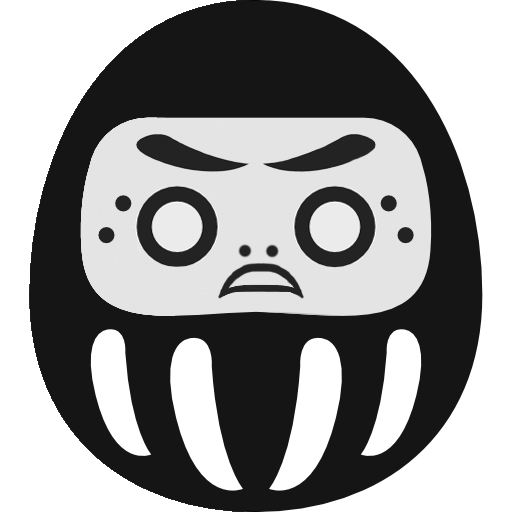
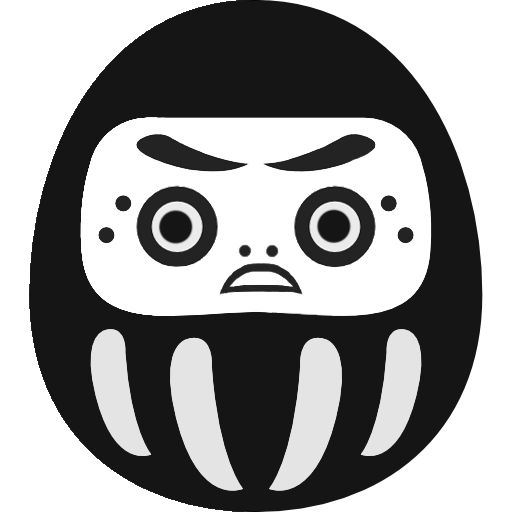
desync kois anim, add anim happy daruma when correct answer

Changed region(s): [[0.1562, 0.2188, 0.8438, 0.9062], [0.5312, 0.6562, 0.6875, 0.9688], [0.3125, 0.6562, 0.4688, 0.9688]]

diff --git a/css/styles.css b/css/styles.css
@@ -72,12 +72,18 @@ TOP CONTENT
 .btn-no-sound {
   display: none;
 }
+.btn-no-sound:hover {
+  cursor: pointer;
+}
 .btn-no-sound.is-active {
   display: block;
   width: 3.5rem;
 }
 .btn-sound {
   display: none;
+}
+.btn-sound:hover {
+  cursor: pointer;
 }
 .btn-sound.is-active {
   display: block;
@@ -86,6 +92,9 @@ TOP CONTENT
 .btn-help {
   margin-left: 1rem;
   width: 3.5rem;
+}
+.btn-help:hover {
+  cursor: pointer;
 }
 .codes-soluce-container {
   display: flex;
@@ -167,7 +176,7 @@ GAME
   padding: 0 10px;
   text-align: center;
   position: absolute;
-  top: 19%;
+  top: 12%;
   color: #dc0415;
 }
 .prediction-curtain {
@@ -238,7 +247,7 @@ GAME
 .kois-container {
   position: absolute;
   top: 75px;
-  left: 73px;
+  left: 70px;
 }
 .kois {
   display: flex;
@@ -247,7 +256,7 @@ GAME
   margin-right: 0.5rem;
 }
 .koi {
-  width: 2.5rem;
+  width: 2.6rem;
 }
 
 /* .board {
@@ -309,9 +318,31 @@ GAME
   width: 150px;
   z-index: 5;
 }
+.darumas-container {
+  position: relative;
+  width: 150px;
+  z-index: 5;
+}
+.daruma-happy-anim.is-active {
+  position: relative;
+  animation: DarumaBounce 0.4s ease;
+  animation-iteration-count: 3;
+}
+
 .darumas-container img {
   width: 100%;
   margin-bottom: -1rem;
+}
+@keyframes DarumaBounce {
+  from {
+    top: 0;
+  }
+  50% {
+    top: -20px;
+  }
+  to {
+    top: 0;
+  }
 }
 
 #big-wrapper > div.game-main-container > div.absolute > div > img.daruma-angry {
@@ -438,8 +469,6 @@ h2 span:nth-child(8) {
 }
 
 .swing {
-  width: 14%;
-  margin: auto;
   transform-origin: center top;
   animation: swing 1s ease-in-out forwards infinite;
   animation-iteration-count: infinite;
@@ -502,29 +531,68 @@ h2 span:nth-child(8) {
   }
 }
 
-/* .bars-container {
-  display: flex;
-  height: 300px;
-  background-color: antiquewhite;
+.swing2 {
+  transform-origin: center top;
+  animation: swing 1s ease-in-out forwards infinite;
+  animation-iteration-count: infinite;
+  animation-timing-function: ease-in;
+  animation-duration: 7s;
+  animation-play-state: running;
+  animation-name: swing;
 }
-.top-bar {
-  background: #d96147;
-  width: 100%;
-  height: 30px;
-  border: none;
-}
-.middle-bar {
-  background: #d96147;
-  width: 100%;
-  height: 30px;
-  border: none;
-}
-.bottom-bar {
-  background: #d96147;
-  width: 100%;
-  height: 30px;
-  border: none;
+/* .swing:hover {
+  animation-play-state: paused;
 } */
+@keyframes swing {
+  0% {
+    transform: rotate(0.1deg);
+  }
+  30% {
+    transform: rotate(1.8deg);
+  }
+  40% {
+    transform: rotate(2deg);
+  }
+  45% {
+    transform: rotate(2.1deg);
+  }
+  60% {
+    transform: rotate(1.8deg);
+  }
+  75% {
+    transform: rotate(1deg);
+  }
+  100% {
+    transform: rotate(0deg);
+  }
+}
+
+@keyframes swing {
+  0% {
+    transform: rotate(0deg);
+  }
+  15% {
+    transform: rotate(1deg);
+  }
+  30% {
+    transform: rotate(-1deg);
+  }
+  45% {
+    transform: rotate(2deg);
+  }
+  60% {
+    transform: rotate(-2deg);
+  }
+  75% {
+    transform: rotate(1deg);
+  }
+  90% {
+    transform: rotate(-1deg);
+  }
+  100% {
+    transform: rotate(0deg);
+  }
+}
 
 /* The popup (background) */
 .popup {
@@ -564,4 +632,9 @@ h2 span:nth-child(8) {
   color: #000;
   text-decoration: none;
   cursor: pointer;
+}
+
+.grow {
+  transition: all 0.2s ease-in-out;
+  transform: scale(1.1);
 }

diff --git a/index.html b/index.html
@@ -78,11 +78,21 @@
           <p class="enigmes"></p>
         </div>
         <div class="torii">
-          <img src="./pics/TORii_structure.svg" alt="torii" />
+          <img src="./pics/torii_clue.svg" alt="torii" />
           <div class="kois-container">
-            <div class="kois swing">
-              <img id="koi-one" class="koi" src="./pics/koi.png" alt="koi" />
-              <img id="koi-two" class="koi" src="./pics/koi.png" alt="koi" />
+            <div class="kois">
+              <img
+                id="koi-one"
+                class="koi swing"
+                src="./pics/koi.png"
+                alt="koi"
+              />
+              <img
+                id="koi-two"
+                class="koi swing2"
+                src="./pics/koi.png"
+                alt="koi"
+              />
             </div>
           </div>
           <div class="prediction">
@@ -118,11 +128,14 @@
         <!-- daruma -->
         <div class="absolute">
           <div class="darumas-container">
-            <img
-              class="daruma-happy"
-              src="./pics/daruma_happy.png"
-              alt="daruma_happy"
-            />
+            <div class="daruma-happy-anim">
+              <img
+                class="daruma-happy"
+                src="./pics/daruma_happy.png"
+                alt="daruma_happy"
+              />
+            </div>
+
             <img
               class="daruma-angry"
               src="./pics/daruma_angry.png"
@@ -131,12 +144,6 @@
           </div>
         </div>
       </div>
-
-      <!-- <div class="bars-container">
-          <div class=" top-bar bar"></div>
-          <div class=" middle-bar bar"></div>
-          <div class=" bottom-bar bar"></div>
-        </div> -->
     </div>
   </body>
 </html>

diff --git a/js/game.js b/js/game.js
@@ -68,6 +68,8 @@
     const englishPrediction =
       "Chuck Norris just got here before you, too bad !";
     document.querySelector(".prediction p").textContent = englishPrediction;
+    document.querySelector(".prediction p").style.fontSize = "2.5rem";
+    document.querySelector(".prediction p").style.marginTop = "-10px";
   }
   function showPane() {
     document.querySelector(".pane1").classList.remove("is-active");
@@ -80,10 +82,18 @@
   }
   function enableInput() {
     document.getElementById("answer").disabled = false;
-    document.getElementById("answer").placeholder = " Enter code";
+    document.getElementById("answer").placeholder = "Enter code";
   }
   function hideBoard() {
     document.querySelector(".board").style.display = "none";
+  }
+  function animDarumaHappy() {
+    document.querySelector(".daruma-happy-anim").classList.add("is-active");
+    setTimeout(() => {
+      document
+        .querySelector(".daruma-happy-anim")
+        .classList.remove("is-active");
+    }, 1500);
   }
 
   // COMPARE USER INPUT/COMBINATION
@@ -92,7 +102,9 @@
     if (userInpt === soluce) {
       // document.querySelector(".code-soluce-lvl1").textContent =
       //   enigmas["lvl" + currentLevel].comb;
+
       currentLevel++;
+      animDarumaHappy();
       showKois();
       if (currentLevel == 2) {
         document.querySelector(".lvl1").textContent = enigmas.lvl1.comb;
